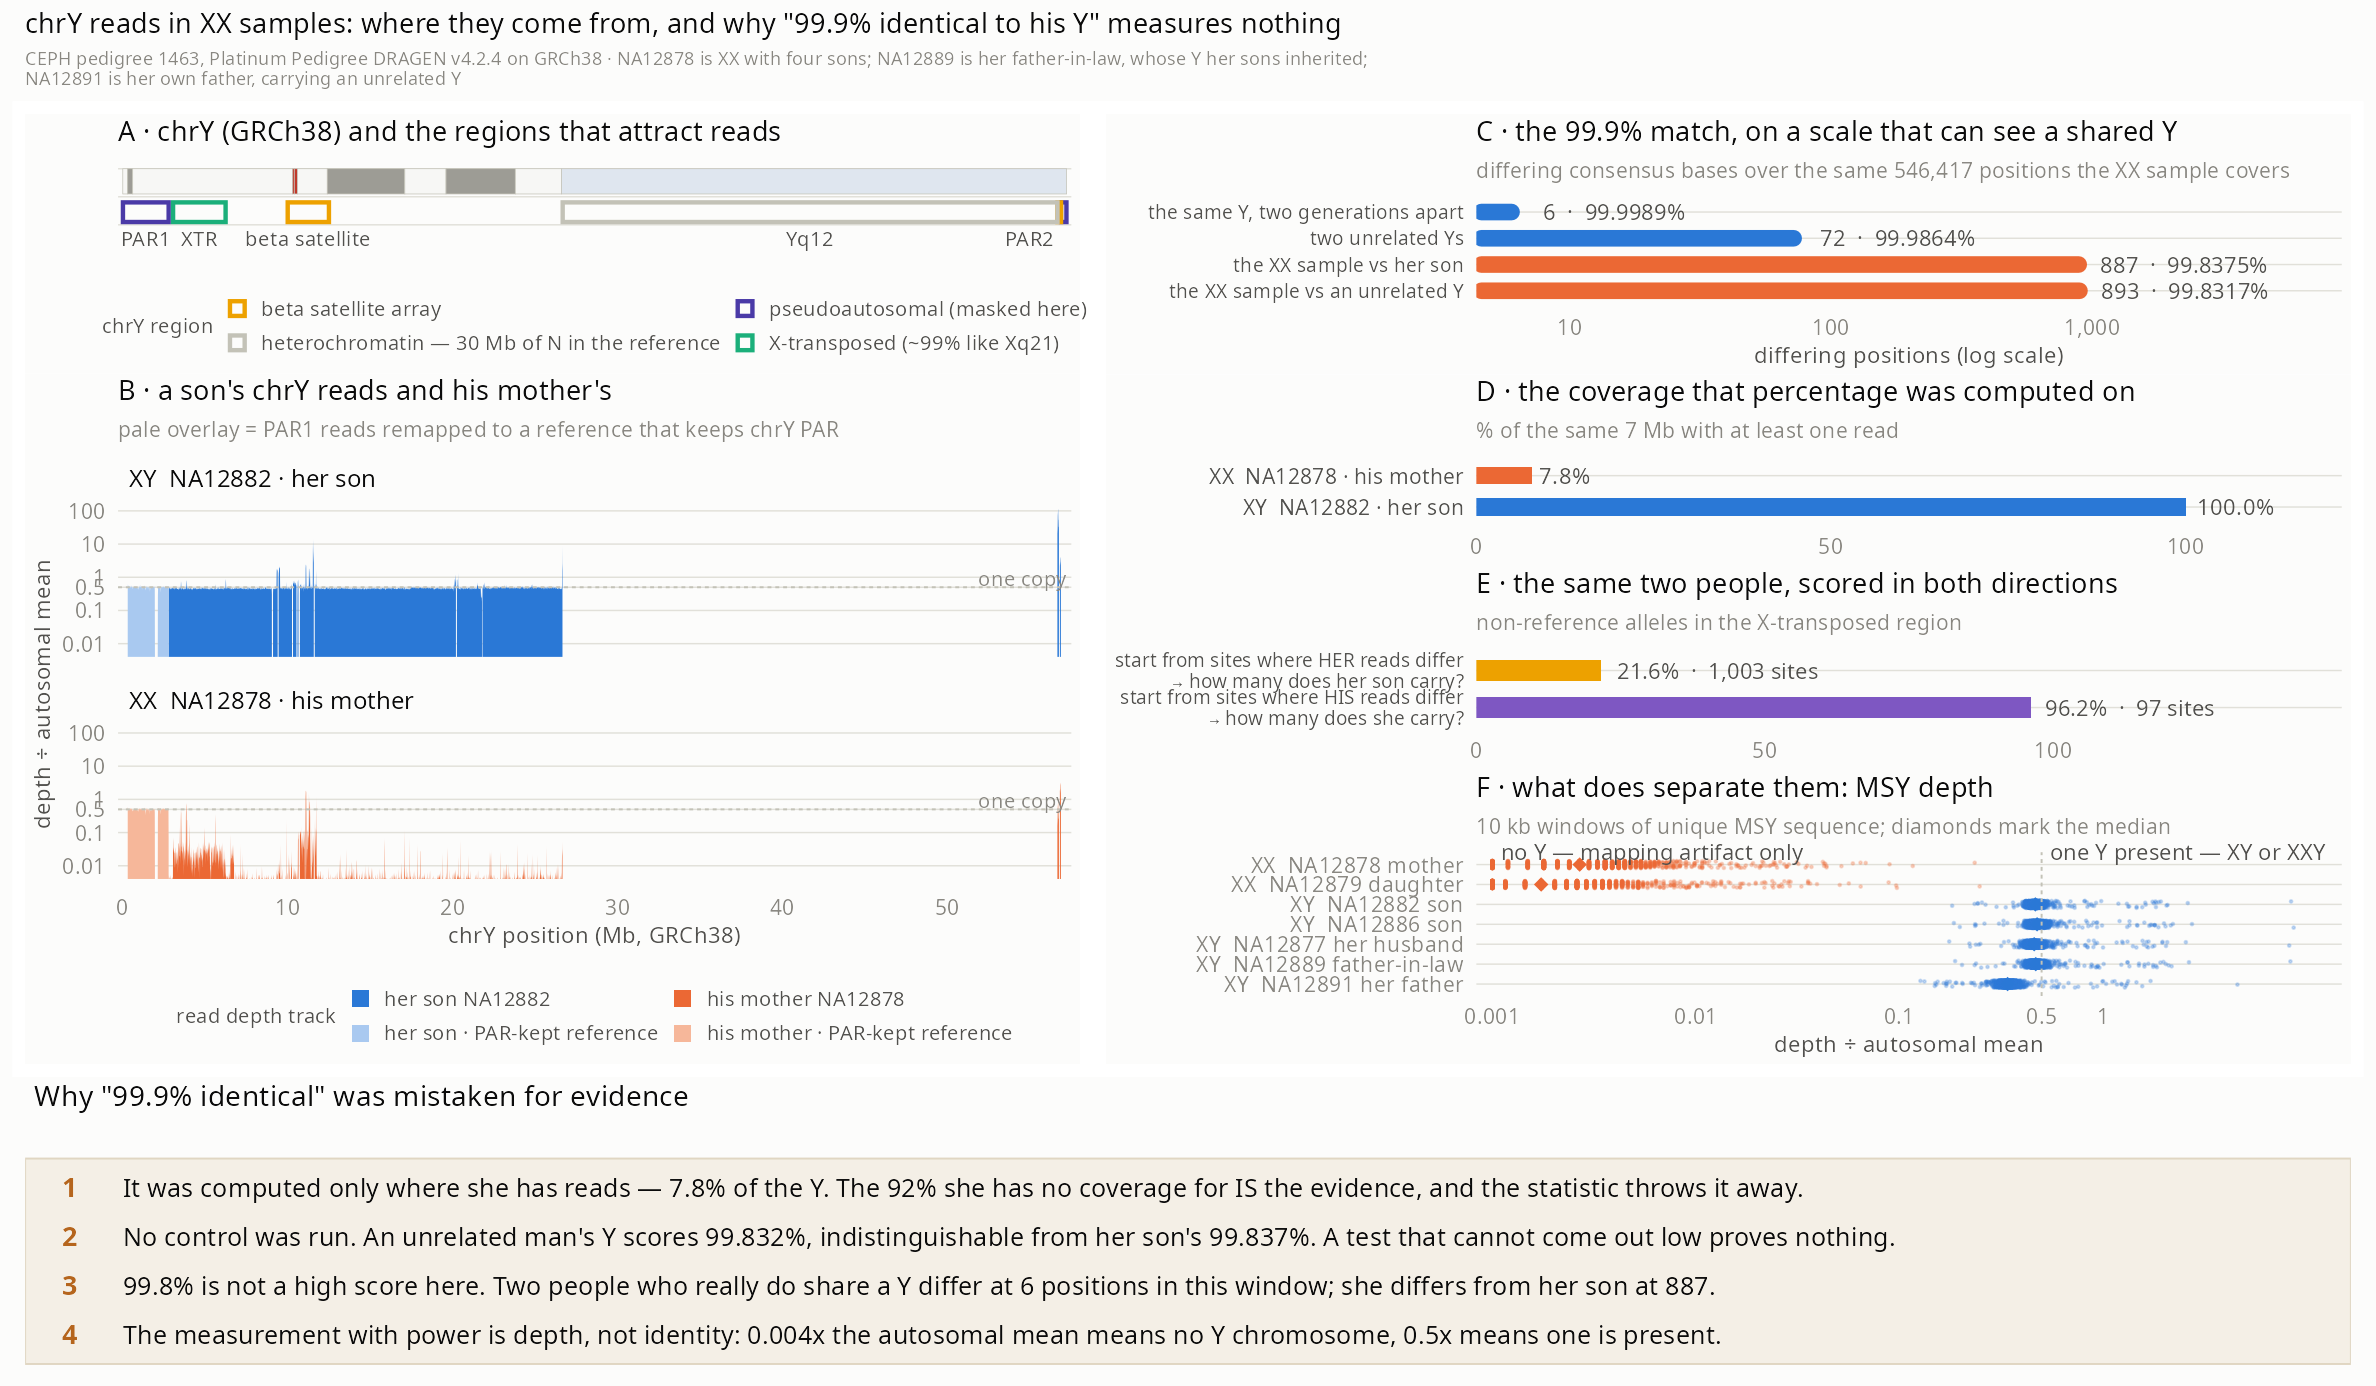
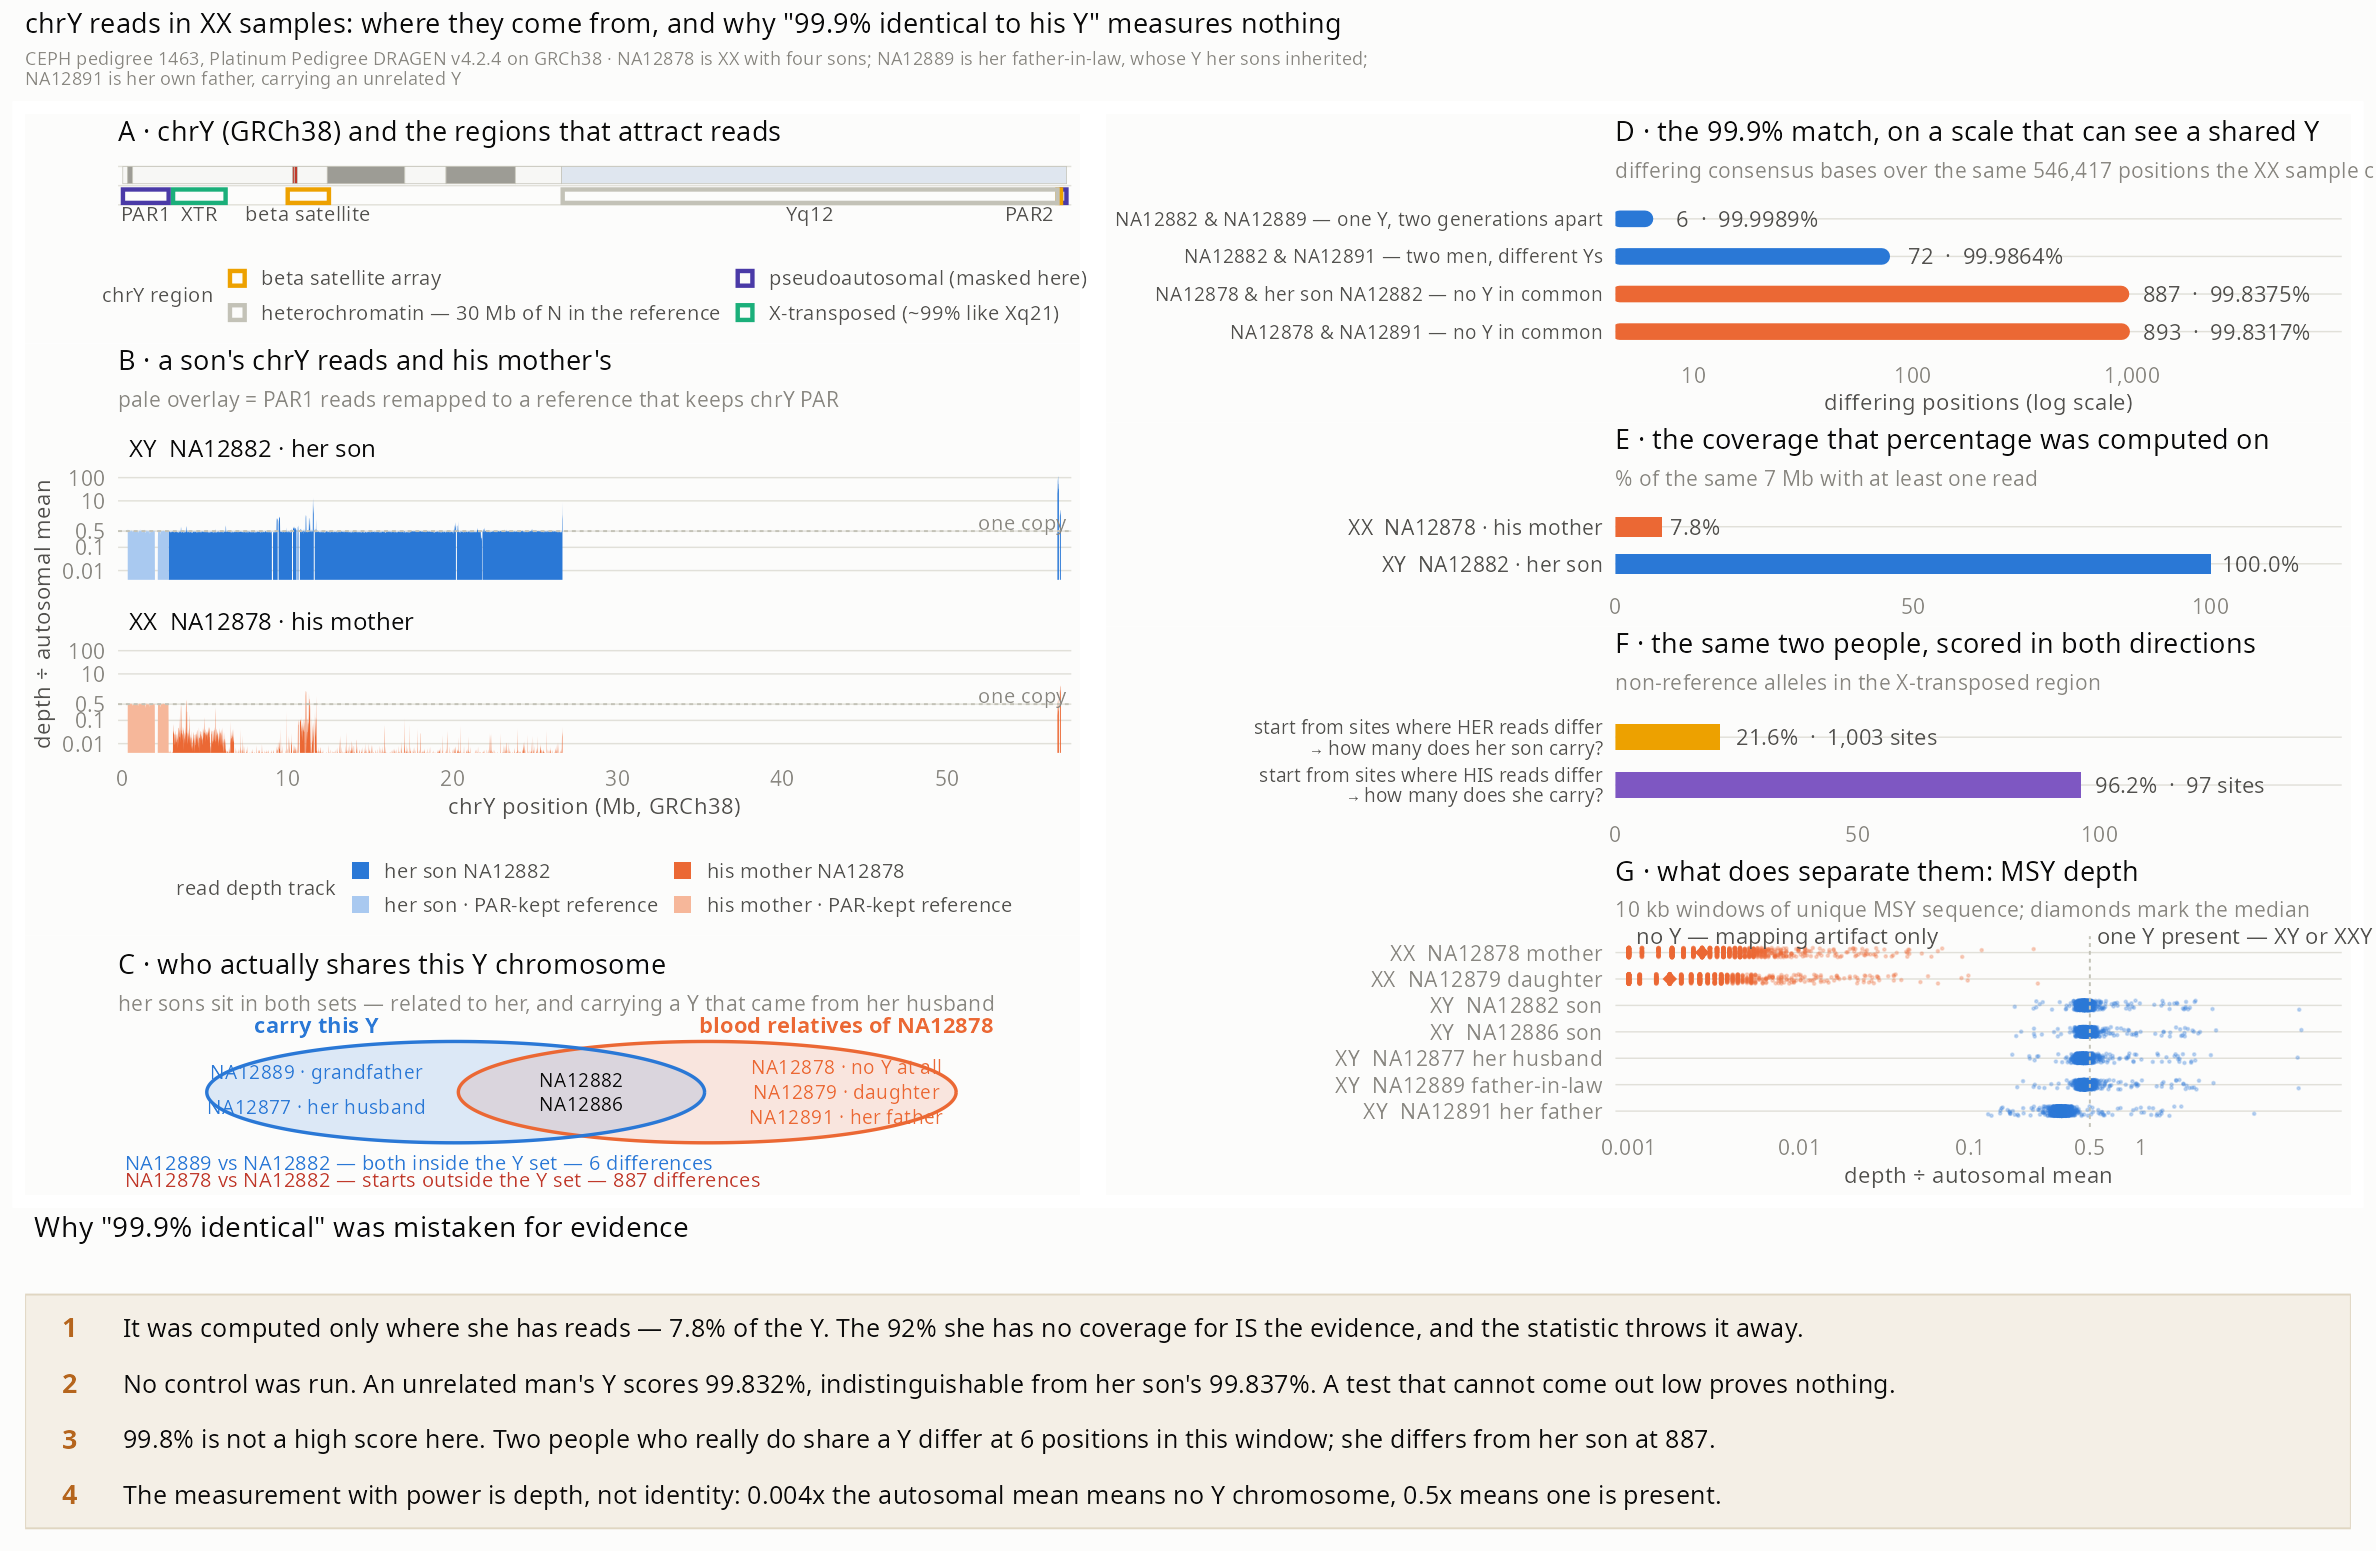
Replace the identity-panel labels with a set diagram of Y sharing
Panel C now draws the two sets — men carrying this Y, and blood relatives of
NA12878 — so it is visible that her sons sit in both while she sits outside the
Y set, and that pedigree distance and Y sharing are different axes.

Claude-Session: https://claude.ai/code/session_01X1rKmJF6yDY1jbN4vabaps

diff --git a/README.md b/README.md
@@ -1414,9 +1414,13 @@ Her chrY reads are no closer to her son's Y than to a stranger's, and they are
 ![Where an XX sample's chrY reads come from, and why her 99.8% match to her son's Y means nothing](img/chry_composite.png)
 
 Panel B of that figure puts her track directly under her son's, which is the
-comparison the claim is about; panels C to F say what a percent match computed
-from those two read sets measures, and the box at the foot names the four
-mistakes.
+comparison the claim is about. Panel C is the part people find least intuitive:
+a Y descends father to son, so her sons sit inside both the set that carries
+this Y and the set of her blood relatives, while she sits outside the first one
+entirely. Her son is her closest relative in the comparison and shares none of
+his Y with her, and his grandfather is two generations further away and shares
+all of it. Panels D to G say what a percent match measures once you know that,
+and the box at the foot names the four mistakes.
 
 Conditioning is what inflates the number. NA12878 has at least one read at
 546,490 of the 7,000,000 positions in that window — 7.8% — and a percent
